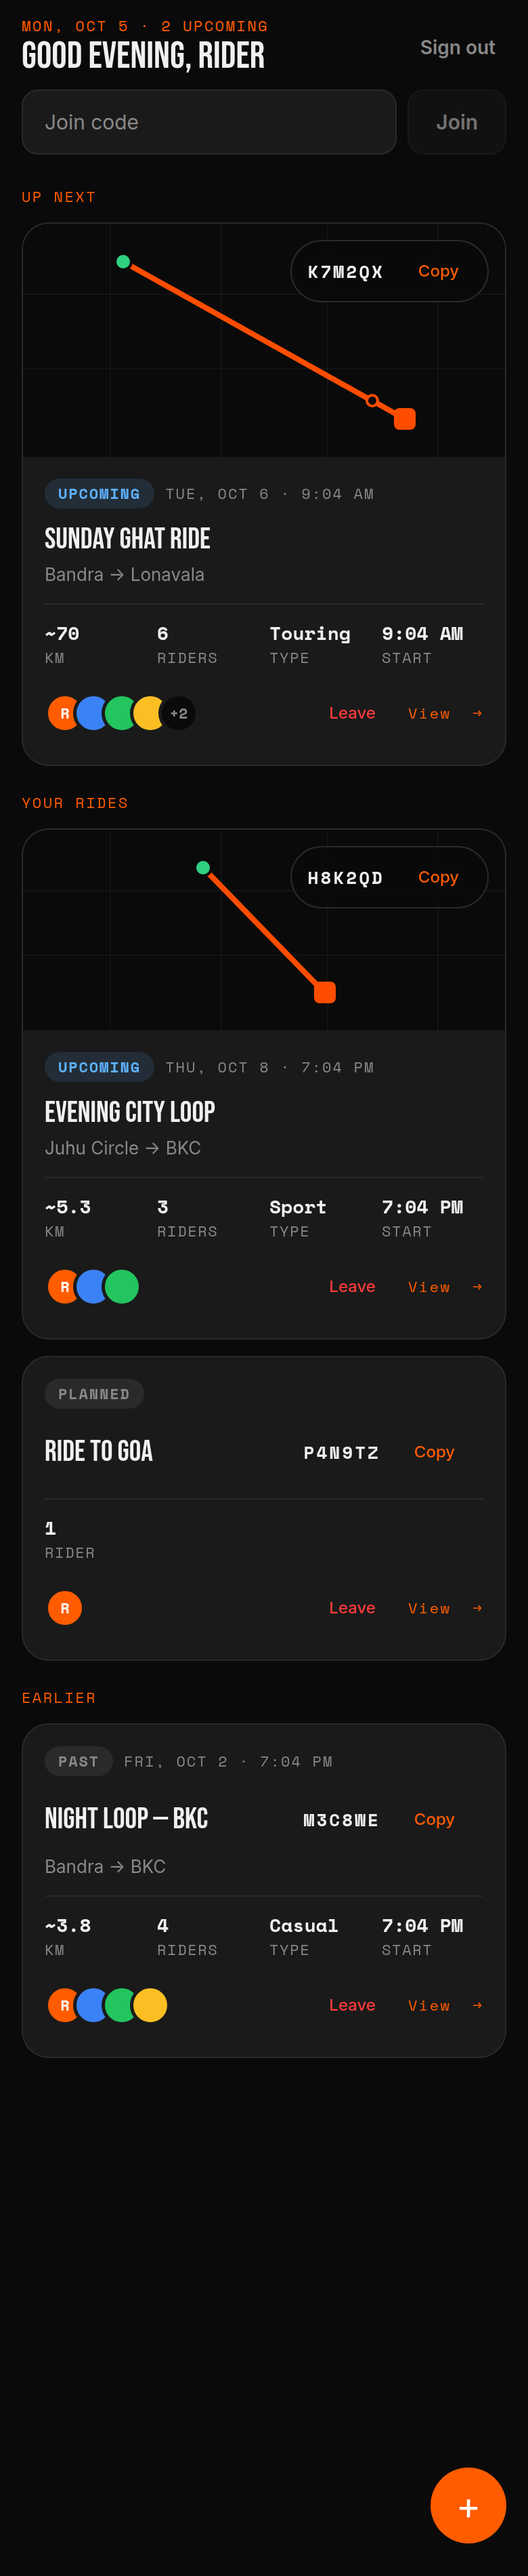
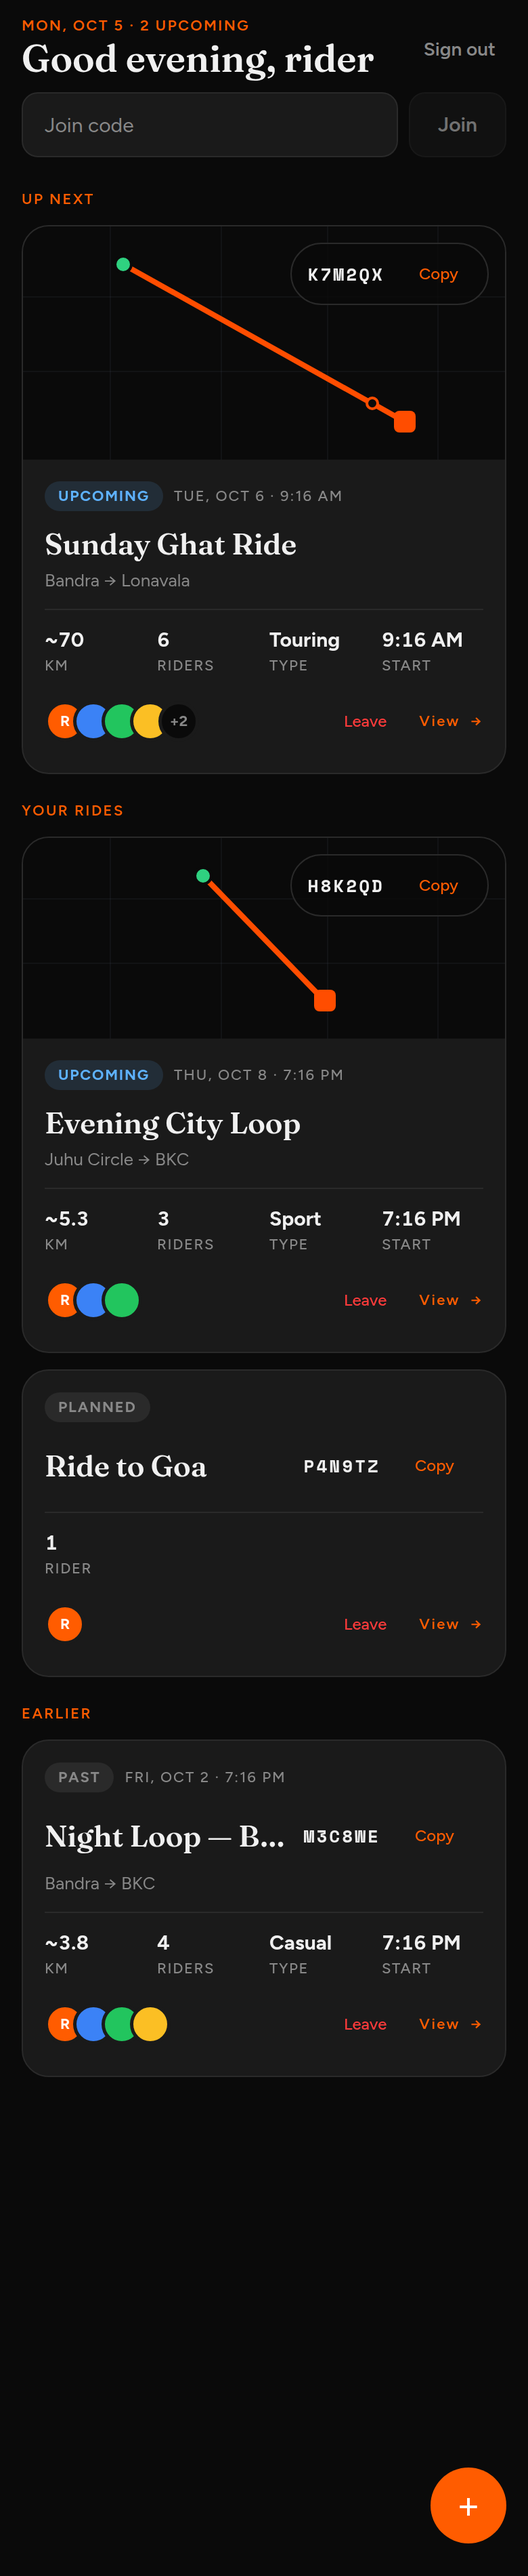
docs: regenerate screenshots with the new typography

diff --git a/app/scripts/screenshots/index.html b/app/scripts/screenshots/index.html
@@ -1,11 +1,10 @@
 <!doctype html><html><head><meta charset="utf-8"><meta name="viewport" content="width=390">
 <style>
-@font-face{font-family:'BebasNeue-Regular';src:url('../../assets/fonts/BebasNeue-Regular.ttf')}
-@font-face{font-family:'Inter-Regular';src:url('../../assets/fonts/Inter-Regular.ttf')}
-@font-face{font-family:'Inter-Medium';src:url('../../assets/fonts/Inter-Medium.ttf')}
-@font-face{font-family:'Inter-SemiBold';src:url('../../assets/fonts/Inter-SemiBold.ttf')}
-@font-face{font-family:'Inter-Bold';src:url('../../assets/fonts/Inter-Bold.ttf')}
-@font-face{font-family:'SpaceMono-Regular';src:url('../../assets/fonts/SpaceMono-Regular.ttf')}
+@font-face{font-family:'Fraunces-SemiBold';src:url('../../assets/fonts/Fraunces-SemiBold.ttf')}
+@font-face{font-family:'Figtree-Regular';src:url('../../assets/fonts/Figtree-Regular.ttf')}
+@font-face{font-family:'Figtree-Medium';src:url('../../assets/fonts/Figtree-Medium.ttf')}
+@font-face{font-family:'Figtree-SemiBold';src:url('../../assets/fonts/Figtree-SemiBold.ttf')}
+@font-face{font-family:'Figtree-Bold';src:url('../../assets/fonts/Figtree-Bold.ttf')}
 @font-face{font-family:'SpaceMono-Bold';src:url('../../assets/fonts/SpaceMono-Bold.ttf')}
 html,body{margin:0;background:#0A0A0A;-webkit-font-smoothing:antialiased}
 </style></head><body><div id="root"></div><script src="scenes.js"></script></body></html>

diff --git a/screenshots/README.md b/screenshots/README.md
@@ -23,7 +23,7 @@ How the app looks right now (dark Ember theme), one image per screen/state. Phon
 ## What these are — and are not
 
 These are **not device screenshots**. The app's real screens and components (real stores, real
-styles, the bundled Bebas Neue / Inter / Space Mono fonts) are rendered in headless Chromium with
+styles, the bundled Fraunces / Figtree fonts) are rendered in headless Chromium with
 `react-native-web`, and the native-only modules (Firebase, Mapbox, sockets, sensors) are stubbed.
 So:
 
